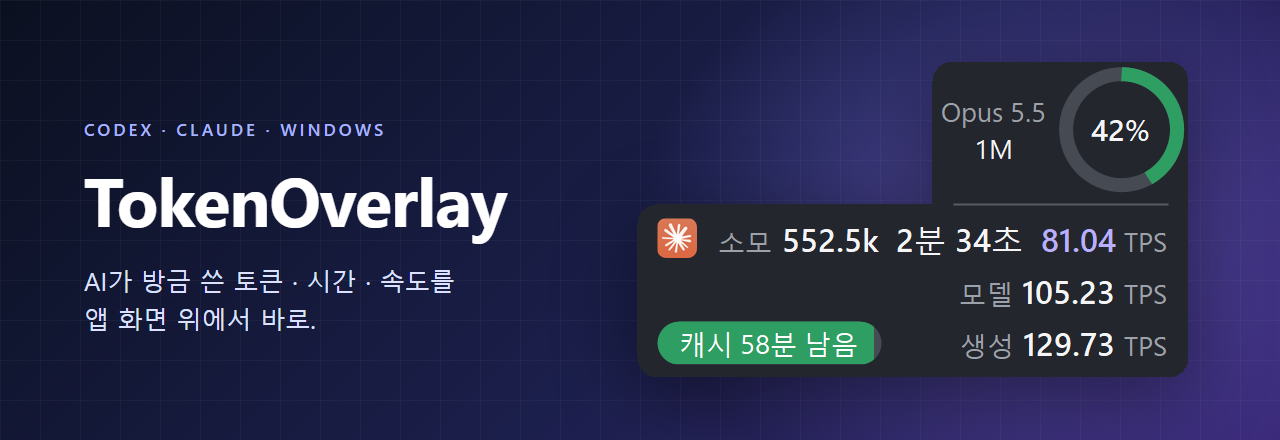
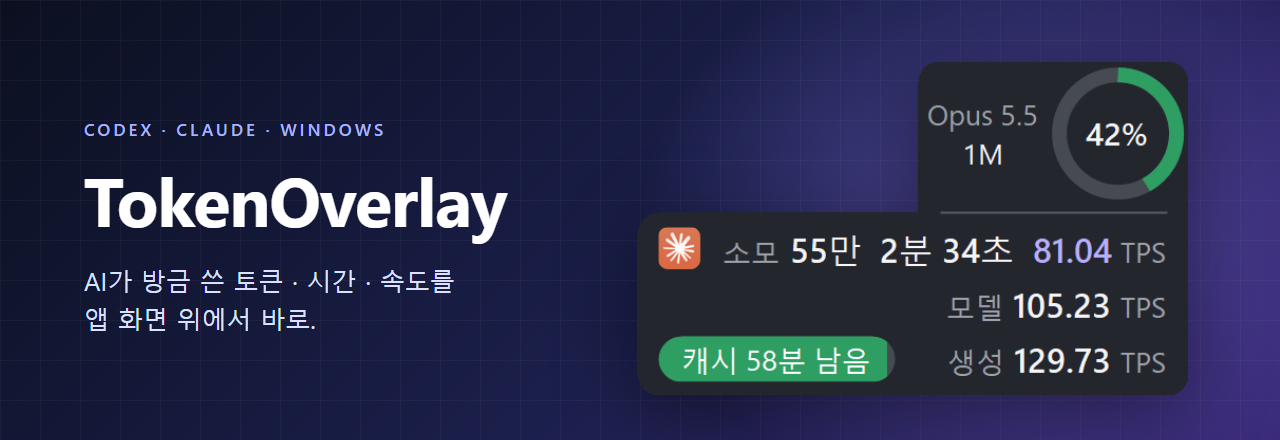
README: pictures re-rendered for 0.10.4 (recent-turn table, 만·억, cache sessions under the turns), the CPU·RAM·GPU bars, OpenCode and DeepSeek Harness

Changed region(s): [[0.5, 0.1477, 0.9375, 0.9159], [0.875, 0.1477, 0.9062, 0.2364], [0.9062, 0.2364, 0.9375, 0.2659]]

diff --git a/README.md b/README.md
@@ -13,7 +13,7 @@
 <br>
 
 <p align="center">
-  <img src="assets/preview.png" alt="한 턴이 끝난 뒤의 캡슐, Ctrl을 누른 채 올리면 펼쳐지는 최근 턴 창" width="100%">
+  <img src="assets/preview.png" alt="한 턴이 끝난 뒤의 캡슐, Ctrl을 누른 채 올리면 펼쳐지는 최근 턴 표와 이번 주 사용량" width="100%">
 </p>
 
 <p align="center">
@@ -26,6 +26,8 @@
 2. 받은 `TokenOverlay-win-Setup.exe`를 실행함
 3. 끝. Codex나 Claude 앱을 켜면 창 위에 캡슐이 붙음
 
+OpenCode·DeepSeek Harness 데스크톱 앱 위에도 캡슐이 뜸(오른쪽 아래). 다만 이 두 앱의 턴 통계는 아직 읽지 않음.
+
 > [!TIP]
 > **실행할 때 경고가 뜨면?** 개인이 만든 프로그램이라 처음 한 번 뜨는 정상 경고임.
 > - 파란 창 **"Windows의 PC 보호"** → **추가 정보** 글자 누르기 → **실행**
@@ -35,10 +37,11 @@
 
 - 트레이(화면 오른쪽 아래 시계 옆 `^`)에 있는 아이콘을 누르면 설정 메뉴가 나옴.
 - 캡슐을 누르면 방금 끝난 턴을 자세히 보여 줌.
-- **Ctrl**을 누른 채 캡슐에 마우스를 올리면 최근 턴과 이번 주 사용량이 펼쳐짐. Claude에서 아래 확장을 켰으면 최근 턴 자리에 캐시 세션 목록이 뜸.
+- **Ctrl**을 누른 채 캡슐에 마우스를 올리면 최근 5턴 표와 이번 주 사용량이 펼쳐짐. Claude에서 아래 확장을 켰으면 최근 턴 아래에 캐시 세션 목록도 뜸.
+- 토큰 수는 1억 아래는 만 단위(예: 4826만), 그 위는 억 단위(예: 1.2억)로 씀.
 - 이번 주 칸: 위 막대는 이번 주에 쓴 양, 아래 시계 줄은 초기화까지 7일 중 흐른 시간. 막대가 시계보다 앞서 있으면 평소보다 빨리 쓰는 중임.
 - 캡슐 아래 줄: **모델** = 도구 실행 시간을 뺀 속도, **생성** = 첫 토큰 대기까지 뺀 속도.
-- 설정 → **CPU·램·페이지 파일 표시** 를 켜면 캡슐 왼쪽 위에 작업 관리자 아이콘 같은 막대 세 개(파랑 CPU, 보라 램, 초록 페이지 파일)가 생기고, 막대 안에 사용률(%)이 뜸. 기본은 꺼짐.
+- 설정 → **CPU·램·GPU 표시** 를 켜면 캡슐 왼쪽 위에 막대 세 개가 생김: 파랑 CPU·보라 램은 사용률(%), 초록은 NVIDIA 그래픽카드의 팬 속도(아래 숫자는 온도). 맨 위 얇은 줄에는 CPU를 가장 많이 쓰는 프로그램이 뜸. 기본은 꺼짐.
 - PC와 노트북을 같이 쓰면 메뉴의 **내 기기 공유 (구글 드라이브)** 를 켜 둠. 두 기기 사용량을 합쳐서 "나"로 셈.
 - 업데이트는 자동임. 새 버전이 준비되면 메뉴 맨 위에 **업데이트 적용 · 재시작** 이 생김.
 
